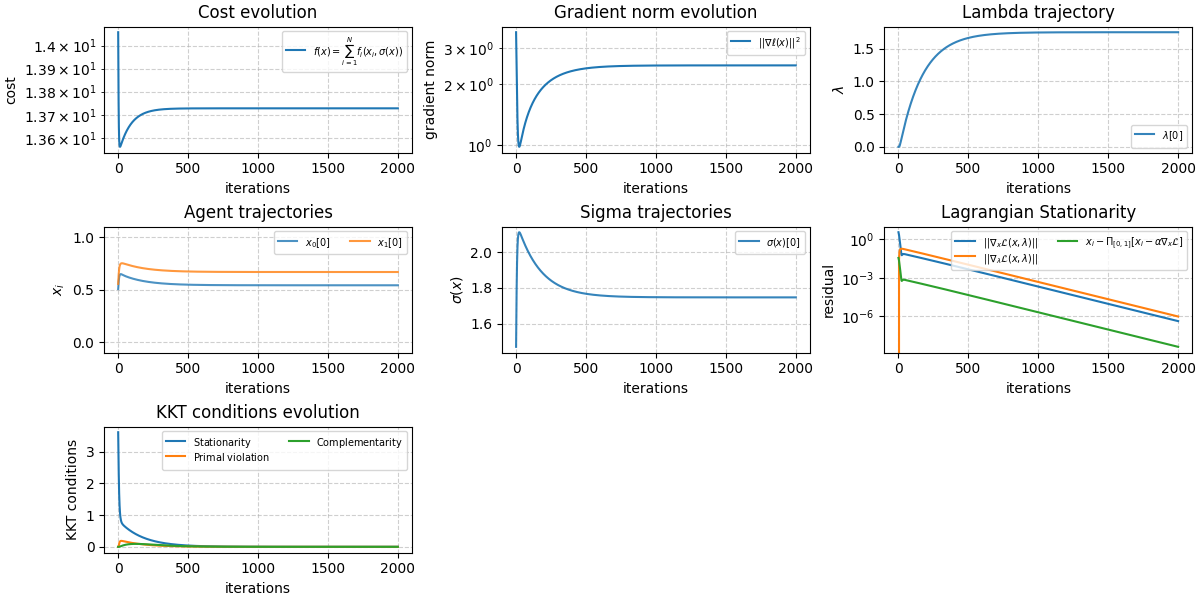
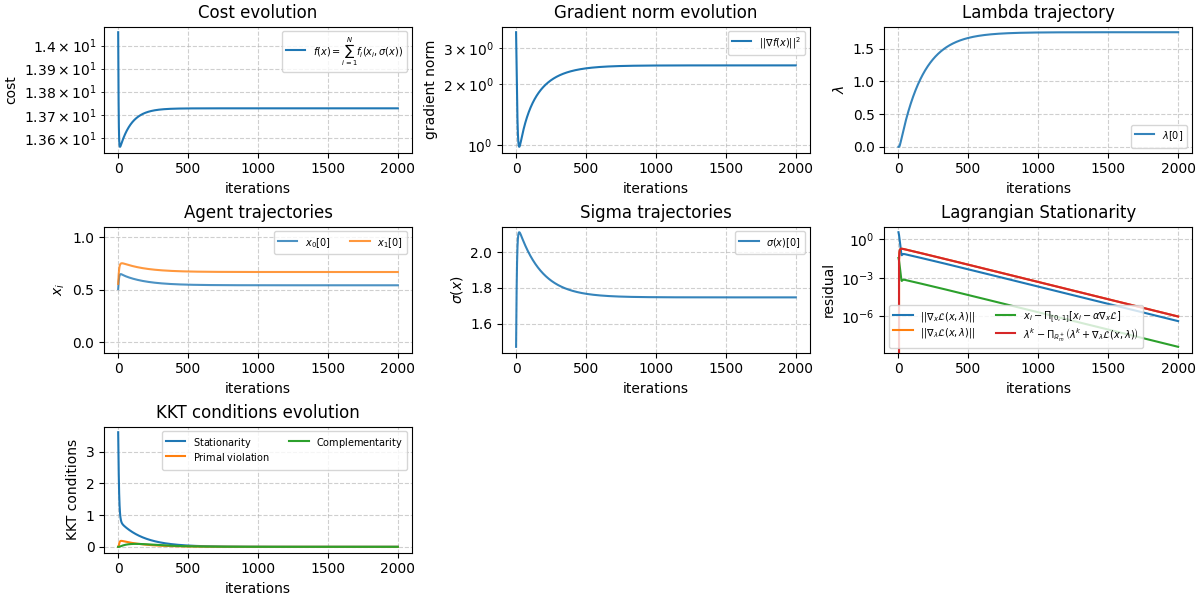
Added 'projected dual residual' measure. Fixed notation in plots. Added \theta comparison in CIAO plots. Removed lagrangian cost from plots.

Changed region(s): [[0.74, 0.48, 0.9867, 0.57], [0.74, 0.39, 0.9867, 0.48], [0.6167, 0.06, 0.6783, 0.09]]

diff --git a/src/plots/plots.py b/src/plots/plots.py
@@ -204,13 +204,13 @@ class BaseRunResultPlotter:
 
         if cost.ndim == 2: # (K, costs)
             assert cost.shape[1] == 2, "\ell(z), Lagrangian, and ?"
-            _timeseries(
-                ax, cost[:, 1], 
-                legend = legend or r'$\mathcal{L}(x,\lambda)$',
-                title="Cost evolution of Lagrangian", 
-                ylabel="cost", 
-                semilogy=semilogy
-            )
+            # _timeseries(
+            #     ax, cost[:, 1], 
+            #     legend = legend or r'$\mathcal{L}(x,\lambda)$',
+            #     title="Cost evolution of Lagrangian", 
+            #     ylabel="cost", 
+            #     semilogy=semilogy
+            # )
 
             _timeseries(
                 ax, cost[:, 0], 
@@ -234,7 +234,7 @@ class BaseRunResultPlotter:
         
         _timeseries(
             ax, grad_norm,
-            legend = legend or r'$ ||\nabla \ell(x) ||^2 $', 
+            legend = legend or r'$ ||\nabla f(x) ||^2 $', 
             title="Gradient norm evolution", 
             ylabel="gradient norm", 
             semilogy=semilogy,
@@ -614,23 +614,35 @@ class ConstrainedRunResultPlotter(BaseRunResultPlotter):
 
     @staticmethod
     def _render_lagr_stationarity_from_result(ax, result, *, semilogy):
-        if "grad_L_x_traj" not in result.aux or "grad_L_l_traj" not in result.aux or "proj_residual_traj" not in result.aux:
-            ax.set_title("Stationarity (missing in aux)")
+        if "grad_L_x_traj" not in result.aux:
+            ax.set_title("grad_L_x_traj (missing in aux)")
+            return
+        if "grad_L_l_traj" not in result.aux:
+            ax.set_title("grad_L_l_traj (missing in aux)")
+            return
+        if "proj_residual_traj_primal" not in result.aux:
+            ax.set_title("proj_residual_traj_primal (missing in aux)")
+            return
+        if "proj_residual_traj_dual" not in result.aux:
+            ax.set_title("proj_residual_traj_dual (missing in aux)")
             return
 
         grad_L_x = result.aux["grad_L_x_traj"]  # shape (K, n_tot)
         grad_L_l = result.aux["grad_L_l_traj"]  # shape (K, m)
-        proj_residual = result.aux["proj_residual_traj"]  # shape (K, N, d)
+        proj_residual_primal = result.aux["proj_residual_traj_primal"]  # shape (K, N, d)
+        proj_residual_dual = result.aux["proj_residual_traj_dual"]  # shape (K, N, m) or (K, m)
 
         grad_L_x_dim = len(grad_L_x.shape)
         grad_L_l_dim = len(grad_L_l.shape)
-        proj_residual_dim = len(proj_residual.shape)
+        proj_residual_dim_primal = len(proj_residual_primal.shape)
+        proj_residual_dim_dual = len(proj_residual_dual.shape)
         # the norm of the whole matrix / vector present at each iteration
         # so if grad.shape = (K, N, d1, d2, d3)
         # grad_norm[k] is the norm of the (N, d1, d2, d3) matrix at grad[k]
         grad_L_x_norm = np.linalg.norm(grad_L_x, axis=tuple(range(1, grad_L_x_dim)))
         grad_L_l_norm = np.linalg.norm(grad_L_l, axis=tuple(range(1, grad_L_l_dim)))
-        proj_residual_norm = np.linalg.norm(proj_residual, axis=tuple(range(1, proj_residual_dim)))
+        proj_residual_norm_primal = np.linalg.norm(proj_residual_primal, axis=tuple(range(1, proj_residual_dim_primal)))
+        proj_residual_norm_dual = np.linalg.norm(proj_residual_dual, axis=tuple(range(1, proj_residual_dim_dual)))
         
         _timeseries(
             ax, grad_L_x_norm, 
@@ -647,8 +659,16 @@ class ConstrainedRunResultPlotter(BaseRunResultPlotter):
             semilogy=semilogy
         )
         _timeseries(
-            ax, proj_residual_norm, 
+            ax, proj_residual_norm_primal, 
             legend = r'$$ x_i - \Pi_{[0,1]} [x_i - \alpha \nabla_x \mathcal{L} ] $$',
+            title="Lagrangian Stationarity", 
+            ylabel="residual",
+            semilogy=semilogy
+        )
+
+        _timeseries(
+            ax, proj_residual_norm_dual, 
+            legend = r'$$\lambda^k - \Pi_{\mathbb{R}_m^+}\left(\lambda^k + \nabla_\lambda \mathcal{L}(x,\lambda)\right)$$',
             title="Lagrangian Stationarity", 
             ylabel="residual",
             semilogy=semilogy

diff --git a/src/algorithms/affine_constraints/distributed/DuMeng2.py b/src/algorithms/affine_constraints/distributed/DuMeng2.py
@@ -62,7 +62,8 @@ class DuMeng2(Algorithm):
         collector_grad_ell = TrajectoryCollector("total gradient of l(x)", K, (N,d))
         collector_grad_L_z = TrajectoryCollector("gradient of L(z,l) wrt. z", K, (N,d))
         collector_grad_L_l = TrajectoryCollector("gradient of L(z,l) wrt. l", K, (m,))
-        collector_projected_stationarity = TrajectoryCollector("Projected_stationarity_traj", K, (N,d))
+        collector_projected_stationarity_primal = TrajectoryCollector("Projected_stationarity_traj_primal", K, (N,d))
+        collector_projected_stationarity_dual = TrajectoryCollector("Projected_stationarity_traj_dual", K, (N,m))
 
         collector_kkt = TrajectoryCollector("kkt", K, (3,))
 
@@ -192,15 +193,19 @@ class DuMeng2(Algorithm):
             # global primal residual: r = A x - b
             zz_k = np.array([ag["zz"] for ag in self.problem.agents])
             zz_k_flat = zz_k.reshape((N*d,))
+            ll_k = np.array([ag["ll"] for ag in self.problem.agents])       # (N, m)
+            ll_k_flat = ll_k.reshape((N*m,))
+
             r = BB @ zz_k_flat - bb # (m,)
             total_grad_L_in_l = r
 
             # $$ z_i - \Pi_{[0,1]}\left(z_i - \alpha \nabla_z \mathcal L(z,\lambda)\right) $$
-            proj_residual = zz_k - zz_k_plus_1
+            proj_residual_primal = zz_k - zz_k_plus_1
             
+            # $$ \lambda^k - \Pi_{\mathbb{R}_m^+}\left(\lambda^k + \nabla_\lambda \mathcal L(x,\lambda)\right) $$
+            proj_residual_dual = ll_k - np.maximum(ll_k + r, 0.0)
+
             # stationarity: ||∇f(x) + A^T λ||
-            ll_k = np.array([ag["ll"] for ag in self.problem.agents])       # (N, m)
-            ll_k_flat = ll_k.reshape((N*m,))
             ll_bar = np.mean(ll_k, axis=0) # TODO: la media?
             # BB.T @ ll_bar
             # eq (10a): $$ \mathbf{0} = \nabla_1 f(w^*, z^*) + \nabla h(w^*)\mu^* + \Lambda^T\lambda^* $$
@@ -232,7 +237,8 @@ class DuMeng2(Algorithm):
             collector_grad_ell.log(k, total_grad_ell)
             collector_grad_L_z.log(k, total_grad_L_in_z)
             collector_grad_L_l.log(k, total_grad_L_in_l)
-            collector_projected_stationarity.log(k, proj_residual)
+            collector_projected_stationarity_primal.log(k, proj_residual_primal)
+            collector_projected_stationarity_dual.log(k, proj_residual_dual)
 
             # [ write back ]
             for i, agent_i in enumerate(self.problem.agents):
@@ -257,12 +263,13 @@ class DuMeng2(Algorithm):
                 # "ss_traj": collector_ss.get(),
                 "sigma_traj": collector_ss.get(),
                 "vv_traj": collector_vv.get(),
-                "aa_traj": collector_aa.get(), 
+                "qq_traj": collector_aa.get(), # In Thesis is qq, notation clash with 'a' of adjacency matrix.
                 "nn_traj": collector_nn.get(),
                 "lambda_traj": collector_ll.get(),
                 "grad_L_x_traj": collector_grad_L_z.get(),
                 "grad_L_l_traj": collector_grad_L_l.get(),
-                "proj_residual_traj": collector_projected_stationarity.get(),
+                "proj_residual_traj_primal": collector_projected_stationarity_primal.get(),
+                "proj_residual_traj_dual": collector_projected_stationarity_dual.get(),
                 "kkt_traj": collector_kkt.get(),
             }
         )

diff --git a/src/algorithms/sigma_constraints/distributed/CIAO.py b/src/algorithms/sigma_constraints/distributed/CIAO.py
@@ -68,7 +68,8 @@ class CIAO(Algorithm):
         collector_grad_ell = TrajectoryCollector("total gradient of l(x)", K, (N,d))
         collector_grad_L_z = TrajectoryCollector("gradient of L(z,l) wrt. z", K, (N,d))
         collector_grad_L_l = TrajectoryCollector("gradient of L(z,l) wrt. l", K, (m,))
-        collector_projected_stationarity = TrajectoryCollector("Projected_stationarity_traj", K, (N,d))
+        collector_projected_stationarity_primal = TrajectoryCollector("Projected_stationarity_traj_primal", K, (N,d))
+        collector_projected_stationarity_dual = TrajectoryCollector("Projected_stationarity_traj_dual", K, (N,m))
 
         collector_kkt = TrajectoryCollector("kkt", K, (3,))
 
@@ -206,7 +207,11 @@ class CIAO(Algorithm):
             total_grad_L_in_l = r
 
             # $$ z_i - \Pi_{[0,1]}\left(z_i - \alpha \nabla_z \mathcal L(z,\lambda)\right) $$
-            proj_residual = zz_k - zz_k_plus_1
+            proj_residual_primal = zz_k - zz_k_plus_1
+
+            # $$ \lambda^k - \Pi_{\mathbb{R}_m^+}\left(\lambda^k + \nabla_\lambda \mathcal L(x,\lambda)\right) - \frac{\theta}{\beta}\lambda^k$$
+            
+            proj_residual_dual = ll_k - np.maximum(ll_k + r - theta/beta*ll_k, 0.0)
             
             # stationarity: ||∇f(x) + A^T λ||
             ll_k = np.array([ag["ll"] for ag in self.problem.agents])       # (N, m)
@@ -246,7 +251,8 @@ class CIAO(Algorithm):
             collector_grad_ell.log(k, total_grad_ell)
             collector_grad_L_z.log(k, total_grad_L_in_z)
             collector_grad_L_l.log(k, total_grad_L_in_l)
-            collector_projected_stationarity.log(k, proj_residual) 
+            collector_projected_stationarity_primal.log(k, proj_residual_primal)
+            collector_projected_stationarity_dual.log(k, proj_residual_dual)
 
             # [ write back ]
             for i, agent_i in enumerate(self.problem.agents):
@@ -271,12 +277,13 @@ class CIAO(Algorithm):
                 # "ss_traj": collector_ss.get(),
                 "sigma_traj": collector_ss.get(),
                 "vv_traj": collector_vv.get(),
-                "aa_traj": collector_aa.get(), 
+                "qq_traj": collector_aa.get(), # In Thesis is qq, notation clash with 'a' of adjacency matrix.
                 "nn_traj": collector_nn.get(),
                 "lambda_traj": collector_ll.get(),
                 "grad_L_x_traj": collector_grad_L_z.get(),                
                 "grad_L_l_traj": collector_grad_L_l.get(),
-                "proj_residual_traj": collector_projected_stationarity.get(),
+                "proj_residual_traj_primal": collector_projected_stationarity_primal.get(),
+                "proj_residual_traj_dual": collector_projected_stationarity_dual.get(),
                 "kkt_traj": collector_kkt.get(),
             }
         )

diff --git a/src/algorithms/affine_constraints/centralized/AugmentedPrimalDualGradientDescent.py b/src/algorithms/affine_constraints/centralized/AugmentedPrimalDualGradientDescent.py
@@ -100,7 +100,8 @@ class AugmentedPrimalDualGradientDescent(Algorithm):
         
         collector_grad_L_x = TrajectoryCollector("gradient of L(x,l) wrt. x", K, (N*d,))
         collector_grad_L_l = TrajectoryCollector("gradient of L(x,l) wrt. l", K, (m,))
-        collector_projected_stationarity = TrajectoryCollector("Projected_stationarity_traj", K, (N,d))
+        collector_projected_stationarity_primal = TrajectoryCollector("Projected_stationarity_traj", K, (N,d))
+        collector_projected_stationarity_dual = TrajectoryCollector("Projected_stationarity_traj", K, (m,))
 
         collector_kkt = TrajectoryCollector("kkt", K, (3,))
 
@@ -200,8 +201,14 @@ class AugmentedPrimalDualGradientDescent(Algorithm):
             # complementarity: max |λ_j * r_j| (max to highlight the "less satisfied constraint")
             complementarity = np.max(np.abs(self.lamda * r))
 
-            # $$ r_i = z_i - \Pi_{[0,1]}\left(z_i - \alpha \nabla_i \mathcal L\right) $$
-            proj_residual = (zz_k - zz_k_plus_1).reshape(N, d)
+            # $$ z_i - \Pi_{[0,1]}\left(z_i - \alpha \nabla_i \mathcal L\right) $$
+            proj_residual_primal = (zz_k - zz_k_plus_1).reshape(N, d)
+            
+
+            # $$ \lambda^k - \Pi_{\mathbb{R}_m^+}\left(\lambda^k + \nabla_\lambda \mathcal L(x,\lambda)\right) $$
+            
+            proj_dual = np.maximum(self.lamda + r, 0.0)
+            proj_residual_dual = self.lamda - proj_dual
 
             # ------[ collector ]------
             collector_zz.log(k, np.array([ag["zz"] for ag in self.problem.agents]))
@@ -212,7 +219,8 @@ class AugmentedPrimalDualGradientDescent(Algorithm):
             collector_sigma.log(k, sigma)
             collector_grad_L_x.log(k, total_grad_L_in_x)
             collector_grad_L_l.log(k, total_grad_L_in_lamda)
-            collector_projected_stationarity.log(k, proj_residual)
+            collector_projected_stationarity_primal.log(k, proj_residual_primal)
+            collector_projected_stationarity_dual.log(k, proj_residual_dual)
             collector_kkt.log(k, np.array([stationarity, primal_violation, complementarity], dtype=float))
             
             # ------[ writeback ]------
@@ -236,7 +244,8 @@ class AugmentedPrimalDualGradientDescent(Algorithm):
                 "lambda_traj": collector_lamda.get(),
                 "grad_L_x_traj": collector_grad_L_x.get(),
                 "grad_L_l_traj": collector_grad_L_l.get(),
-                "proj_residual_traj": collector_projected_stationarity.get(),
+                "proj_residual_traj_primal": collector_projected_stationarity_primal.get(),
+                "proj_residual_traj_dual": collector_projected_stationarity_dual.get(),
                 "kkt_traj": collector_kkt.get(),
             }
         )

diff --git a/src/algorithms/sigma_constraints/centralized/SigmaConstraint.py b/src/algorithms/sigma_constraints/centralized/SigmaConstraint.py
@@ -42,7 +42,8 @@ class SigmaConstraint(Algorithm):
         
         collector_grad_L_x = TrajectoryCollector("gradient of L(x,l) wrt. x", K, (N,d))
         collector_grad_L_l = TrajectoryCollector("gradient of L(x,l) wrt. l", K, m)
-        collector_projected_stationarity = TrajectoryCollector("Projected_stationarity_traj", K, (N,d))
+        collector_projected_stationarity_primal = TrajectoryCollector("Projected_stationarity_traj_primal", K, (N,d))
+        collector_projected_stationarity_dual = TrajectoryCollector("Projected_stationarity_traj_dual", K, (m,))
         
         collector_kkt = TrajectoryCollector("kkt", K, 3)
         collector_sigma = TrajectoryCollector("sigma", K, d)
@@ -116,7 +117,14 @@ class SigmaConstraint(Algorithm):
             complementarity = np.max(np.abs(self.lamda * violation))
             
             # $$ r_i = z_i - \Pi_{[0,1]}\left(z_i - \alpha \nabla_i \mathcal L\right) $$
-            proj_residual = (zz_k - zz_k_plus_1).reshape(N, d)
+            proj_residual_primal = (zz_k - zz_k_plus_1).reshape(N, d)
+
+            
+            # $$ \lambda^k - \Pi_{\mathbb{R}_m^+}\left(\lambda^k + \nabla_\lambda \mathcal L(x,\lambda)\right) $$            
+            
+            proj_dual = np.maximum(self.lamda + violation, 0.0)
+            proj_residual_dual = self.lamda - proj_dual
+
 
             # ------[ collector ]------
             collector_zz.log(k, zz_k)
@@ -126,7 +134,8 @@ class SigmaConstraint(Algorithm):
             collector_sigma.log(k, sigma)
             collector_grad_L_x.log(k, total_grad_L_in_x)
             collector_grad_L_l.log(k, total_grad_L_in_lamda)
-            collector_projected_stationarity.log(k, proj_residual)
+            collector_projected_stationarity_primal.log(k, proj_residual_primal)
+            collector_projected_stationarity_dual.log(k, proj_residual_dual)
             collector_kkt.log(k, np.array([stationarity, primal_violation, complementarity], dtype=float))
             
             # ------[ writeback ]------
@@ -147,7 +156,8 @@ class SigmaConstraint(Algorithm):
                 "lambda_traj": collector_lamda.get(),
                 "grad_L_x_traj": collector_grad_L_x.get(),
                 "grad_L_l_traj": collector_grad_L_l.get(),
-                "proj_residual_traj": collector_projected_stationarity.get(),
+                "proj_residual_traj_primal": collector_projected_stationarity_primal.get(),
+                "proj_residual_traj_dual": collector_projected_stationarity_dual.get(),
                 "kkt_traj": collector_kkt.get(),
             }
         )

diff --git a/src/main_sigma_constr.py b/src/main_sigma_constr.py
@@ -317,7 +317,7 @@ def main():
         "stepsize": 0.01,
         "beta": 0.01,
         "gamma": 0.01,
-        "theta": 0.0000001
+        "theta": 0.0001
     }
     algo_params = CIAO.AlgorithmParams(**args)
     result_distributed = distributed.run(algo_params)
@@ -336,7 +336,7 @@ def main():
         \
         .plot_agents_trajectories()\
         .plot_sigma_trajectory()\
-        .plot_aux(["aa_traj", "nn_traj"], semilogy=False)\
+        .plot_aux(["qq_traj", "nn_traj"], semilogy=False)\
         \
         .plot_lagr_stationarity()\
         .plot_consensus_error(["lambda_traj", "sigma_traj", "vv_traj"])\
@@ -358,6 +358,23 @@ def main():
             plotter.save(filename)
     # animation.animate_offloading_with_mean(result, problem.agents, interval=80)
 
+    # -----------------------
+    # |     DISTRIBUTED     |
+    # -----------------------
+    problem = setup_problem()
+    distributed = CIAO(problem)
+    args = {
+        "seed": seed,
+        "max_iter": 2000,
+        "stepsize": 0.01,
+        "beta": 0.01,
+        "gamma": 0.01,
+        "theta": 0.000001
+    }
+    algo_params = CIAO.AlgorithmParams(**args)
+    result_distributed_theta = distributed.run(algo_params)
+
+    result_distributed_theta.summary()
 
     # -----------------------
     # |     COMPARISON      |
@@ -397,6 +414,17 @@ def main():
             horizontal_plotter.show()
         if SAVE_COMPARISON:
             horizontal_plotter.save(filename)
+
+    results = [result_centralized, result_distributed]
+    horizontal_plotter = plots.ComparisonConstrainedRunResultPlotter(problem, [result_distributed, result_distributed_theta], layout="horizontal")
+    filename = plots.plot_filename_comparison_from_results(results, "theta")
+    horizontal_plotter\
+        .clear()\
+        .plot_lagr_stationarity()
+    if SHOW_COMPARISON:
+        horizontal_plotter.show()
+    if SAVE_COMPARISON:
+        horizontal_plotter.save(filename)
     
 
 if __name__ == "__main__":

diff --git a/src/models/optimization_problem.py b/src/models/optimization_problem.py
@@ -205,12 +205,12 @@ class AffineCouplingProblem(ConstrainedOptimizationProblem):
             
             if abs(a2) > 1e-12:
                 y_line = (b - a1 * xs) / a2
-                ax.plot(xs, y_line, 'k--', label=f"{a1:.2f}·z1 + {a2:.2f}·z2 = {b:.2f}")
+                ax.plot(xs, y_line, 'k--', label=f"{a1:.2f}·x1 + {a2:.2f}·x2 = {b:.2f}")
             else:
                 if abs(a1) < 1e-12:
                     continue
                 x_line = np.full_like(ys, b / a1)
-                ax.plot(x_line, ys, 'k--', label=f"{a1:.2f}·z1 = {b:.2f}")
+                ax.plot(x_line, ys, 'k--', label=f"{a1:.2f}·x1 = {b:.2f}")
 
 class ConstrainedSigmaProblem(ConstrainedOptimizationProblem):
     def __init__(self, agents:list[Agent], adj:np.ndarray, seed : int, c : np.ndarray):

diff --git a/src/main_affine_constr.py b/src/main_affine_constr.py
@@ -875,7 +875,7 @@ def main():
         \
         .plot_agents_trajectories()\
         .plot_sigma_trajectory()\
-        .plot_aux(["aa_traj", "nn_traj"], semilogy=False)\
+        .plot_aux(["qq_traj", "nn_traj"], semilogy=False)\
         \
         .plot_lagr_stationarity()\
         .plot_consensus_error(["lambda_traj", "sigma_traj", "vv_traj"])\
